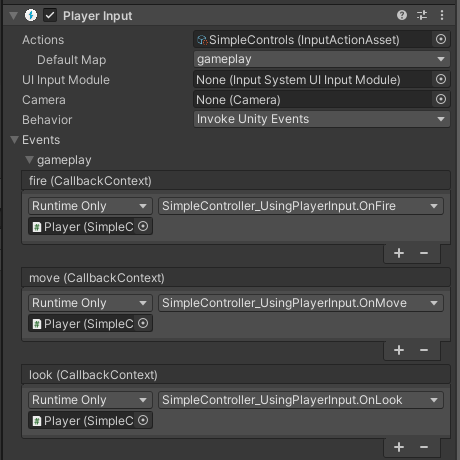
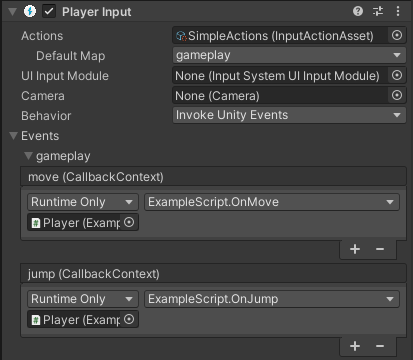
Adding more quick-start style info to the workflows page

Changed region(s): [[0.0, 0.0, 1.0, 1.0], [0.8426, 0.9472, 0.9588, 1.0]]

diff --git a/Packages/com.unity.inputsystem/Documentation~/Workflow-PlayerInput.md b/Packages/com.unity.inputsystem/Documentation~/Workflow-PlayerInput.md
@@ -3,15 +3,61 @@
 ![image alt text](./Images/Workflow-PlayerInput.svg)
 
 
-The highest level of abstraction provided by the Input System is when you use the [Actions Asset](ActionAssets.html) and the **Player Input component** together. The Player Input component takes a reference to an Actions Asset, and provides a way to make connections between the Actions defined in that asset, and C# methods in your own MonoBehaviour scripts, so that your desired C# methods are called when the user performs an input action.
+The highest level of abstraction provided by the Input System is when you use the [Actions Asset](ActionAssets.html) and the **Player Input component** together.
 
-It allows you to set up these connections using a UI in the inspector, instead of requiring you to write code to make those connections, as well as letting you choose how those methods are called.
+ The Player Input component takes a reference to an Actions Asset, and provides a way to make connections between the Actions defined in that asset, and C# methods in your own MonoBehaviour scripts, so that your desired C# methods are called when the user performs an input action. 
+
+It allows you to set up these connections using a UI in the inspector, instead of requiring you to write code to make those connections (as shown in the [previous workflow example](Workflow-ActionsAsset.html)), as well as letting you choose how those methods are called.
+
+You would typically add the PlayerInput component to the same GameObject as your own MonoBehaviour script which contains the methods that should handle the response to the actions.
 
 ![image alt text](./Images/PlayerInputWithGameplayEvents.png)
 
-In the above image, you can see the PlayerInput component set up to map "fire", "move" and "look" actions to `OnFire`, `OnMove` and `OnLook` methods in a script, via Unity Events.
+In the above example image, you can see the PlayerInput component set up to map the "move", "jump" actions to `OnMove` and `OnJump` methods in a script, via Unity Events.
 
-You may find that this level of abstraction and configuration in the UI makes things more convenient, or you may prefer to implement these connections between the actions and your action methods in your own code. This is again a trade-off between simplicity and flexibility.
+This is an example of the script which would provide an implementation of these methods 
 
-Using the Player Input component provides the flexibility of being able to connect any action to any public method on a GameObject’s component without writing code. However you may find that coding the connections in your own script is simpler than setting up and keeping track of these connections in a Player Input component on a GameObject.
+```
+using UnityEngine;
+using UnityEngine.InputSystem;
+
+// This script is designed to have the OnMove and
+// OnJump methods called by a PlayerInput component
+
+public class ExampleScript : MonoBehaviour
+{
+    Vector2 moveAmount;
+
+    public void OnMove(InputAction.CallbackContext context)
+    {
+        // read the value for the "move" action each event call
+        moveAmount = context.ReadValue<Vector2>();
+    }
+
+    public void OnJump(InputAction.CallbackContext context)
+    {
+        // your jump code goes here.
+    }
+
+    public void Update()
+    {
+        // to use the Vector2 value from the "move" action each
+        // frame, use the "moveAmount" variable here.
+    }
+
+}
+```
+
+
+This workflow has pros and cons when compared to the previous workflow which uses an [Action Asset without a PlayerInput component](Workflow-ActionsAsset.html).
+
+You can see compared with the previous workflow code example that this method requires less code, because you do not have to reference the Actions Asset or set up the event handler methods in your own script. However it does require more set-up in the Editor, and could make debugging more difficult because the connections between your actions and code are not hard-coded.
+
+As with the other workflows described in this section, there is a trade-off between flexibility, simplicity, and speed of implementation.
+
+Using the Player Input component provides the flexibility of being able to connect any action to any public method on a GameObject’s component without writing code, and allows you to make modifications to these connections without modifying code.
+
+However, although requiring less code, you may find that coding the connections in your own script is simpler and faster than setting up and keeping track of these connections in a PlayerInput component on a GameObject.
+
+To get started using this workflow, you need to [set up an Actions Asset as described in the previous workflow](Workflow-ActionsAsset.html). Then, rather than accessing your action values or assigning callbacks directly in your code, instead you make the connections between the actions and your code using the PlayerInput component UI. [Read more about using the PlayerInput component here](Components.html).
 

diff --git a/Packages/com.unity.inputsystem/Documentation~/Workflow-Embedded.md b/Packages/com.unity.inputsystem/Documentation~/Workflow-Embedded.md
@@ -6,18 +6,16 @@ You can use the **InputAction class** in your script to define actions in your s
 
 This means that instead of directly reading device states, you do not specify explicitly which controls (such as a gamepad trigger or stick) should do what in your code. Instead you create [Actions](Actions.html), [bind](ActionBindings.html) them to [controls](Controls.html), and respond to the states or values from your Actions in your code.
 
-When you make a public [InputAction](../api/UnityEngine.InputSystem.InputAction.html) field in a MonoBehaviour script, it displays in the inspector as a configurable field. The configurable field UI allows you to create a binding for the action. For example, here are four Actions defined using the InputAction class in a script:
+When you make a public [InputAction](../api/UnityEngine.InputSystem.InputAction.html) field in a MonoBehaviour script, it displays in the inspector as a configurable field. The configurable field UI allows you to create a binding for the action. For example, here are two Actions defined using the InputAction class in a script:
 
 ```
 using UnityEngine;
 using UnityEngine.InputSystem;
 
-public class MyScript : MonoBehaviour
+public class ExampleScript : MonoBehaviour
 {
     public InputAction move;
     public InputAction jump;
-    public InputAction crouch;
-    public InputAction use;
 }
 ```
 
@@ -27,7 +25,57 @@ In the image below, you can see the actions displayed in the inspector. In this 
 
 The InputAction class provides a way to bind interactions from a device’s controls to named actions in the inspector. When you bind actions to controls from a device in the inspector, you can then design your script to respond when the actions are performed without hard-coding references to specific devices in your script. This layer of abstraction provides you with the flexibility to modify or add multiple bindings without needing to change your code.
 
-To read values from your Actions, you must first enable the action, and then either repeatedly poll the action in your game loop, or add event handlers to the action. See [Actions](Actions.html) for more information about both these techniques.
+To read values from your Actions, you must first **enable** the action, and then either repeatedly poll the action in your game loop, or add event handlers to the action. You must also **disable** the action when you no longer want the input to trigger event handlers.
+
+So, use actions such as those shown above in the small code sample, you would use a script like this:
+
+```
+using UnityEngine;
+using UnityEngine.InputSystem;
+
+// Using embedded actions with callbacks or reading values each frame.
+
+public class ExampleScript : MonoBehaviour
+{
+    // these embedded actions are configurable in the inspector:
+    public InputAction moveAction;
+    public InputAction jumpAction;
+
+    public void Awake()
+    {
+        // assign a callback for the "jump" action.
+        jumpAction.performed += ctx => { OnJump(ctx); };
+    }
+
+    public void Update()
+    {
+        // read the value for the "move" action each frame.
+        Vector2 moveAmount = moveAction.ReadValue<Vector2>();
+    }
+
+    public void OnJump(InputAction.CallbackContext context)
+    {
+        // jump code goes here.
+    }
+
+    // the actions must be enabled and disabled
+    // when the GameObject is enabled or disabled
+
+    public void OnEnable()
+    {
+        moveAction.Enable();
+        jumpAction.Enable();
+    }
+
+    public void OnDisable()
+    {
+        moveAction.Disable();
+        jumpAction.Disable();
+    }
+}
+```
+
+See [Actions](Actions.html) for more information about both these techniques.
 
 You can find an example of this workflow in the sample projects included with the input system package. To find it, in the Project window, look in **Assets > Samples > SimpleDemo** and open the scene: **SimpleDemo_UsingActions**.
 

diff --git a/Packages/com.unity.inputsystem/Documentation~/Workflow-ActionsAsset.md b/Packages/com.unity.inputsystem/Documentation~/Workflow-ActionsAsset.md
@@ -23,30 +23,30 @@ When you use an Actions Asset, there are two distinct ways to access it from you
 * Use an **inspector reference** to the Actions Asset, or
 * Generate a **C# class** that wraps your Actions Asset.
 
-Your choice affects how you access your actions from code. With an inspector reference to your Actions Asset, you must read the actions by name using strings. If you use the **Generate C# class** feature, Unity generates an accompanying class as a new **.cs** script asset, which acts as a wrapper for your actions. You can then create an instance of the generated wrapper class in your code and directly use its API members which are named after the names of the actions that you configured.
+Your choice affects how you access your actions from code. With an **inspector reference** to your Actions Asset, you must read the actions by name using strings. If you use the **Generate C# class** feature, Unity generates an accompanying class as a new **.cs** script asset, which acts as a wrapper for your actions. You can then create an instance of the generated wrapper class in your code and directly use its API members which are named after the names of the actions that you configured.
 
 Both workflow options are described below using the same example, so you can see the difference.
 
-**Referencing the Actions Asset in the inspector**
+### Referencing the Actions Asset in the inspector
 
-To use your Actions Asset through an inspector reference:
+To use your Actions Asset through an **inspector reference**:
 
 1. Create a `public InputActionsAsset` field in your script.
 2. [Assign the reference](https://docs.unity3d.com/Manual/EditingValueProperties.html#ref-assign-dnd) in the inspector.
 3. Access the Actions in your script by name, using strings.
 
-This string-based access is demonstrated in the example below. Note that the reference to the "move" action is stored in a variable after it is found, to avoid 
+This string-based access is demonstrated in the example below.
 
 ```
 using UnityEngine;
 using UnityEngine.InputSystem;
 
-public class DocsExampleActionsAssetReference : MonoBehaviour
+public class ExampleScript : MonoBehaviour
 {
     // assign the actions asset to this field in the inspector:
     public InputActionAsset actions; 
     
-    // private fields
+    // private field to store move action reference
     private InputAction moveAction;
 
     void Awake()
@@ -81,9 +81,12 @@ public class DocsExampleActionsAssetReference : MonoBehaviour
 }
 ```
 
-**Referencing the Actions Asset through a C# wrapper**
+**Note:** In the example above the reference to the "move" action is stored in a variable after it is found, to avoid accessing it by string every frame, which would be bad for performance.
 
-To use your Actions Asset through an C# wrapper:
+
+### Referencing the Actions Asset through a C# wrapper
+
+To use your Actions Asset through a **C# wrapper**:
 
 1. Select your Actions Asset in the project window
 2. In the Inspector, enable **Generate C# Class** and select **Apply**. You should see a C# asset with the same name as your Actions Asset in your project window.

diff --git a/Packages/com.unity.inputsystem/Documentation~/Workflow-Direct.md b/Packages/com.unity.inputsystem/Documentation~/Workflow-Direct.md
@@ -32,7 +32,7 @@ public class MyPlayerScript : MonoBehaviour
 }
 ```
 
-The example above reads values directly from  the right trigger, and the left stick, of the currently connected [gamepad](Gamepad.html). It does not use the input system’s "Action" class, and instead the conceptual actions in your game or app, such as "move" and "use", are implicitly defined by what your code does in response to the input.
+The example above reads values directly from  the right trigger, and the left stick, of the currently connected [gamepad](Gamepad.html). It does not use the input system’s "Action" class, and instead the conceptual actions in your game or app, such as "move" and "use", are implicitly defined by what your code does in response to the input. You can use the same approach for other Device types such as the [keyboard](../api/UnityEngine.InputSystem.Keyboard.html) or [mouse](../api/UnityEngine.InputSystem.Mouse.html).
 
 This is often the fastest way to set up some code which responds to input, but it is the least flexible because there is no abstraction between your code and the values generated by a specific device.
 
